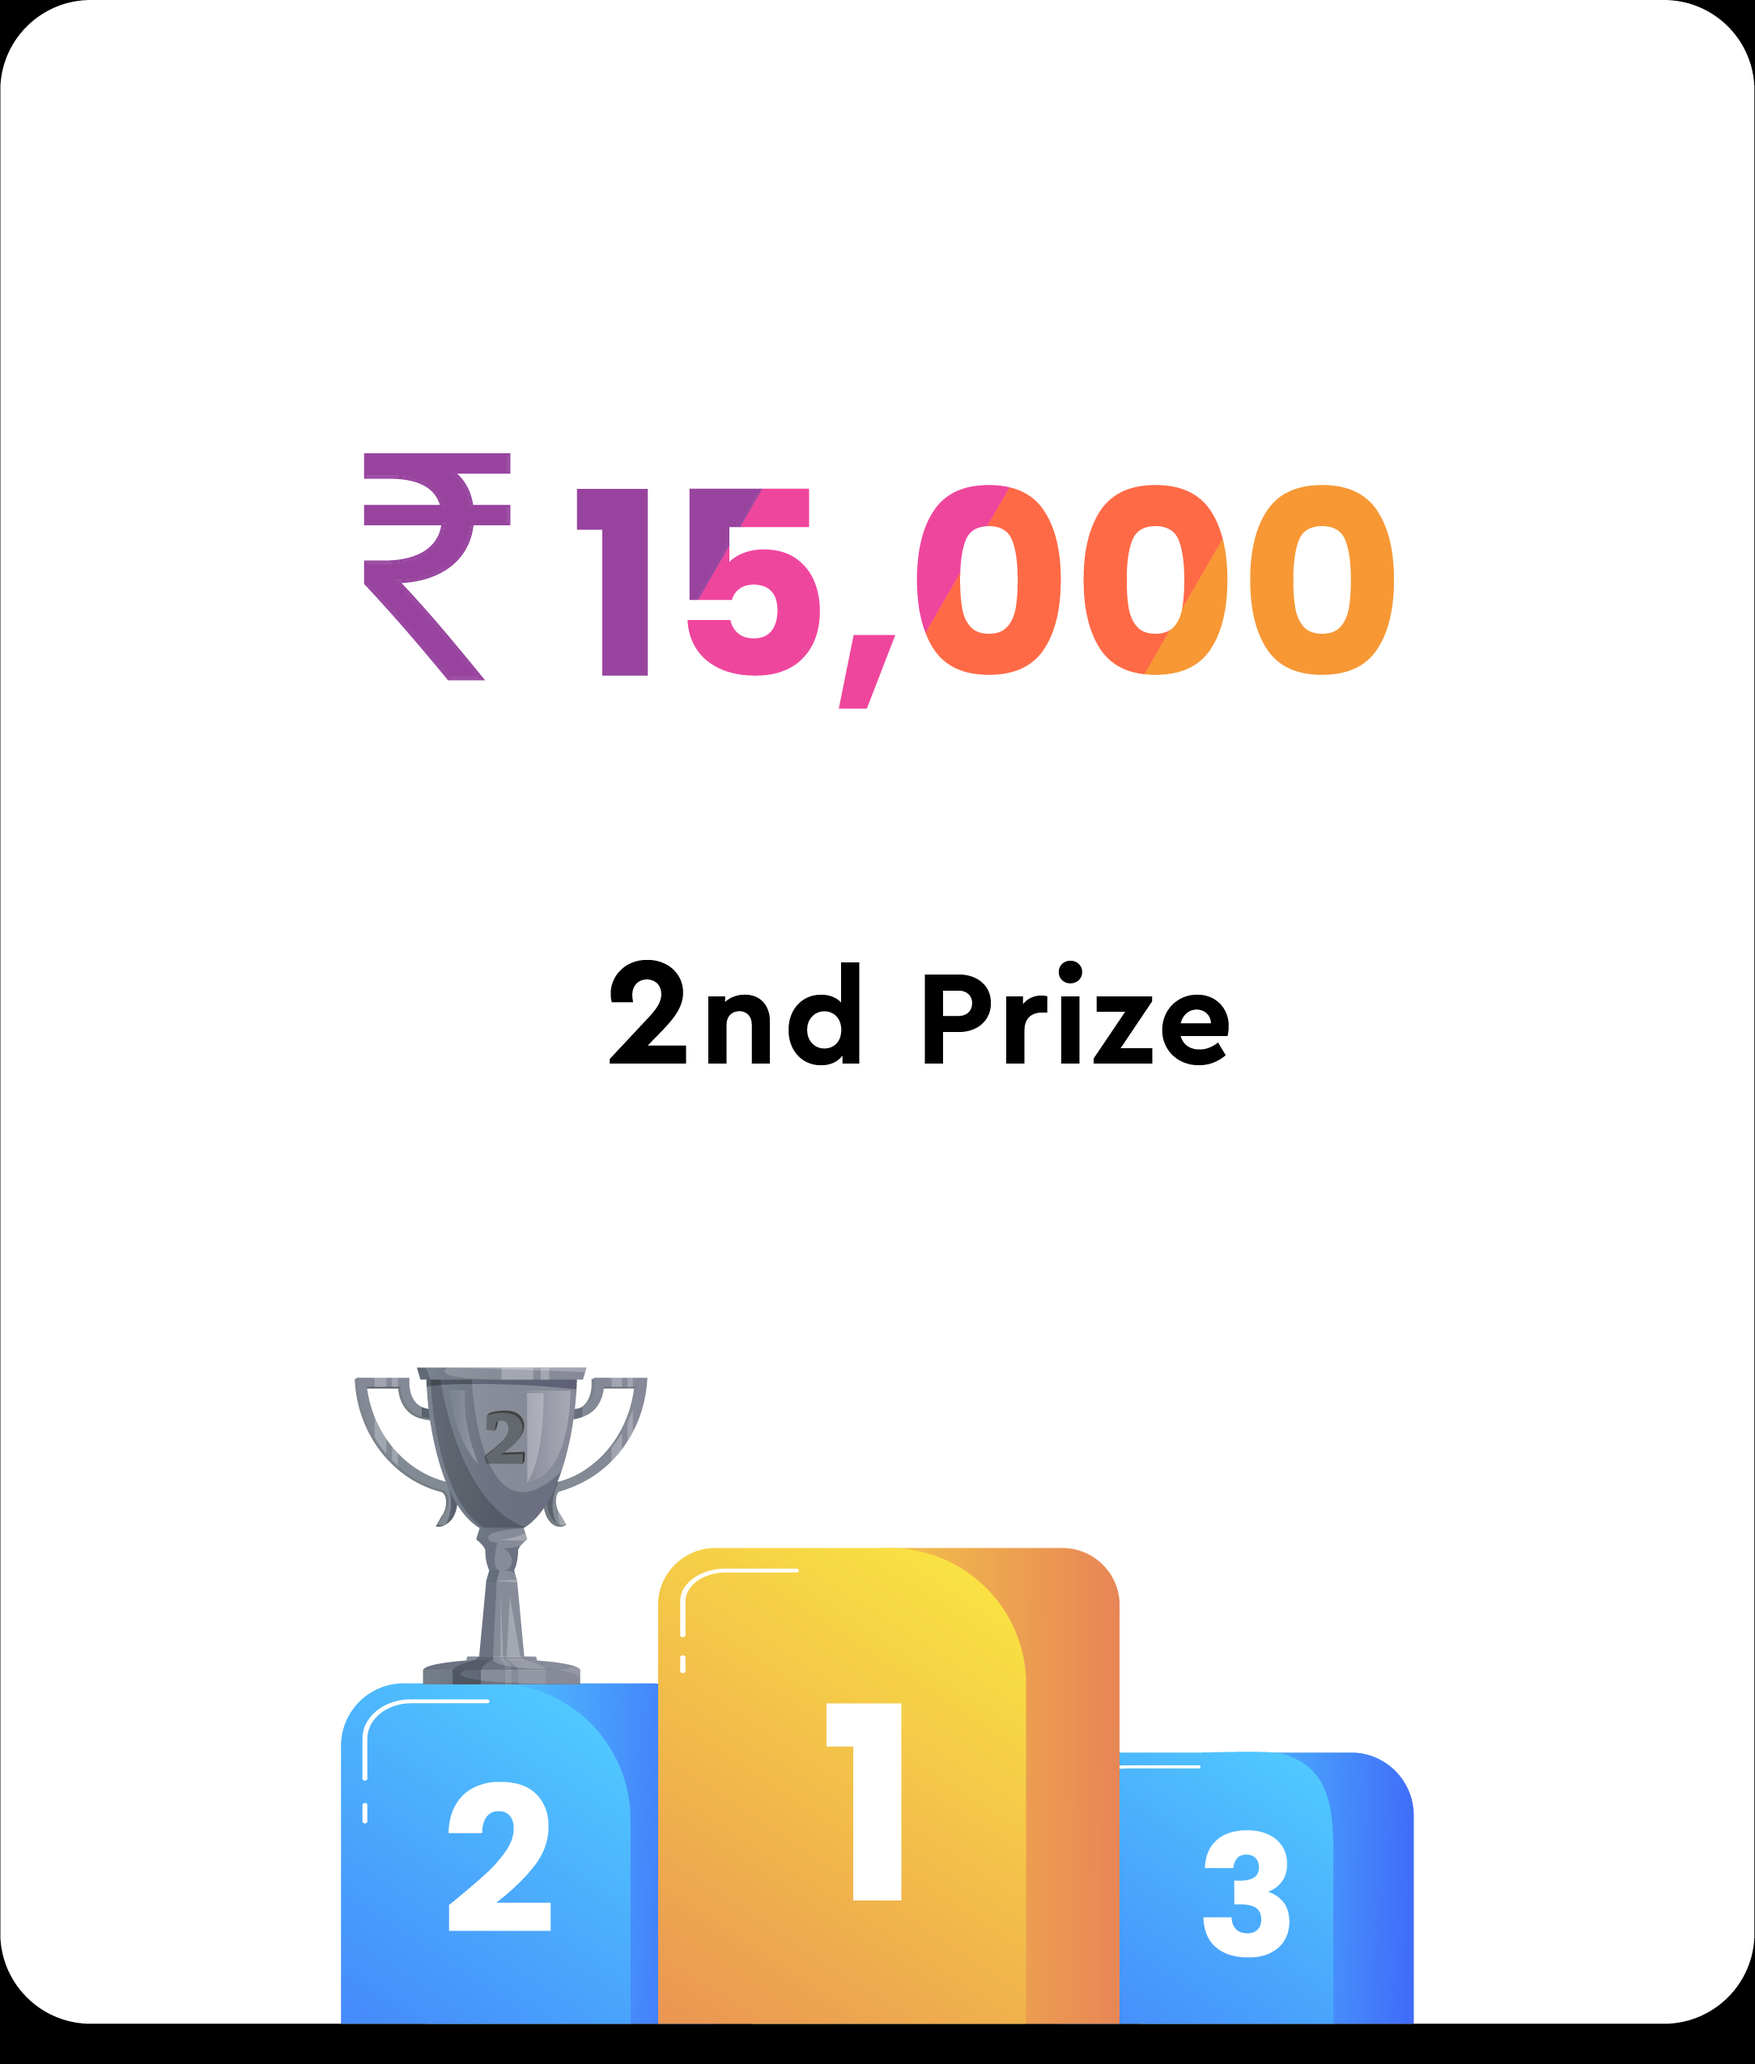
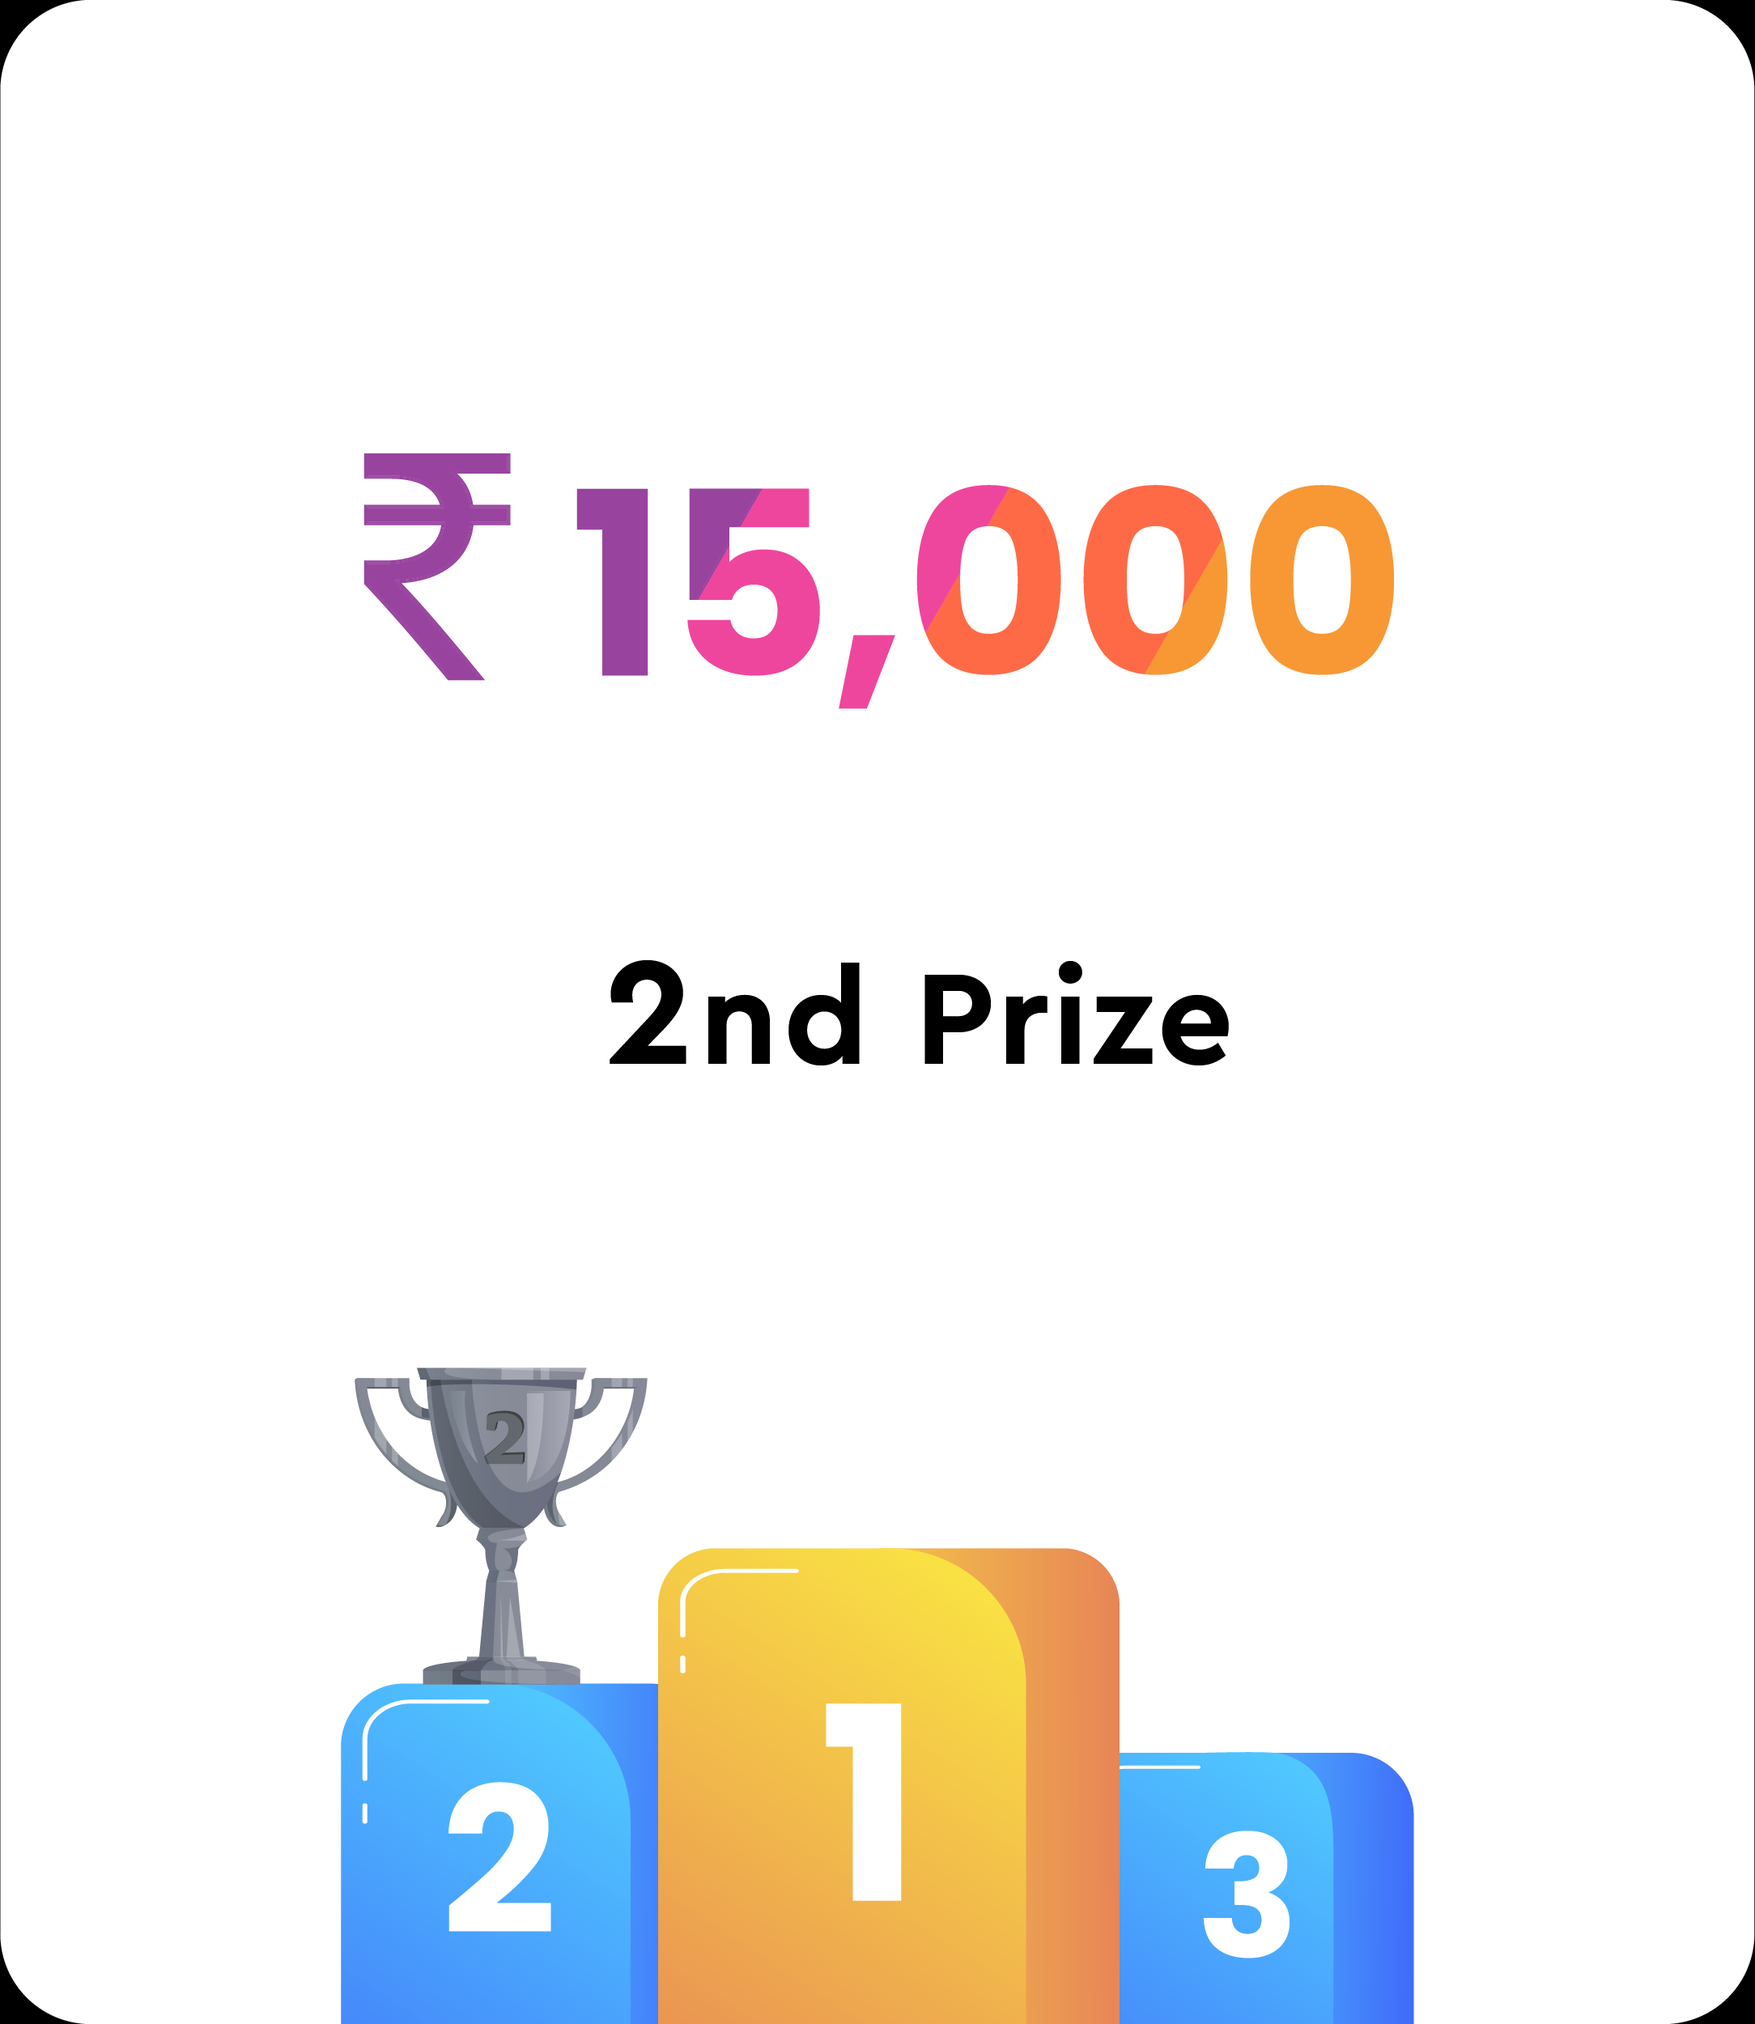
Changed the Posters a little bit

diff --git a/index.html b/index.html
@@ -55,12 +55,12 @@
       display: flex;
       flex-direction: column;
       background-color: white;
-      border-radius: 20px;
+      border-radius: 30px;
     }
 
     .prizeBox {
       width: 100%;
-      border-radius: 20px;
+      border-radius: 30px;
     }
 
     @media only screen and (max-width: 600px) {
